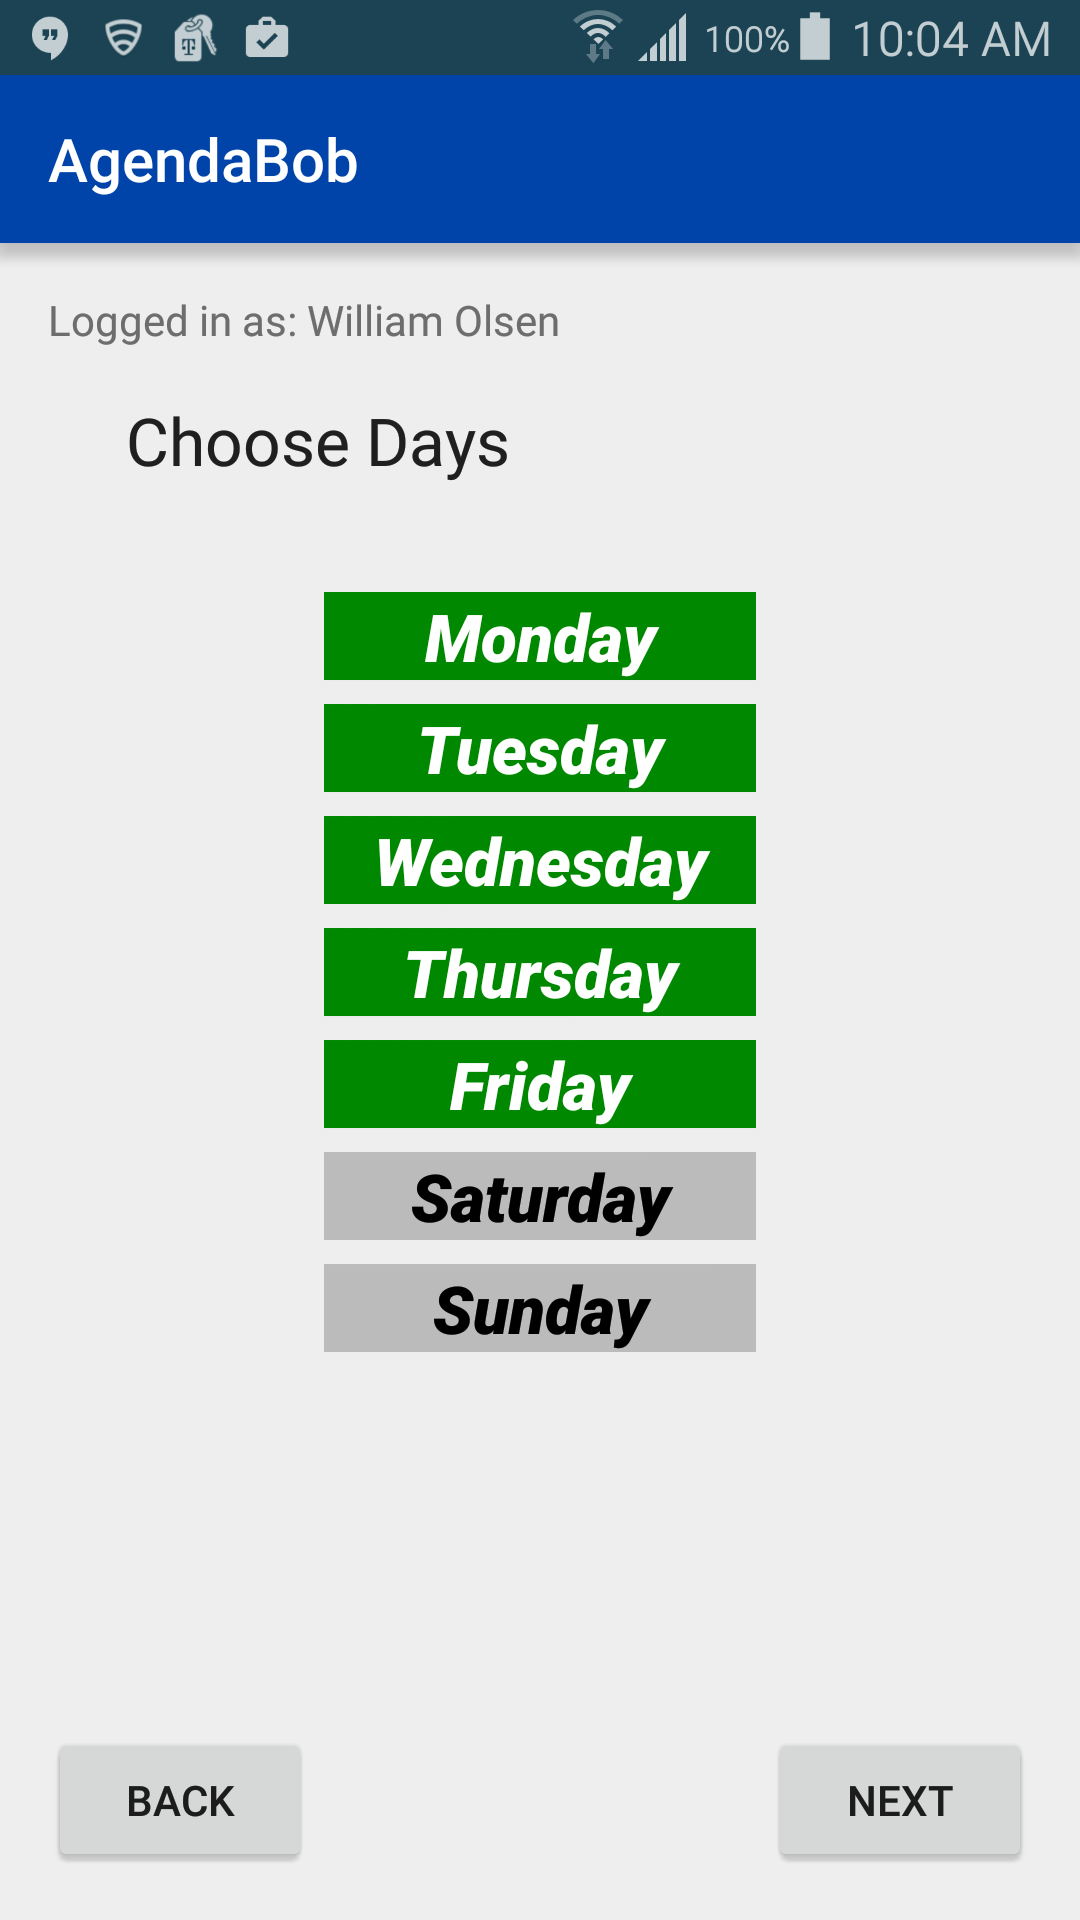
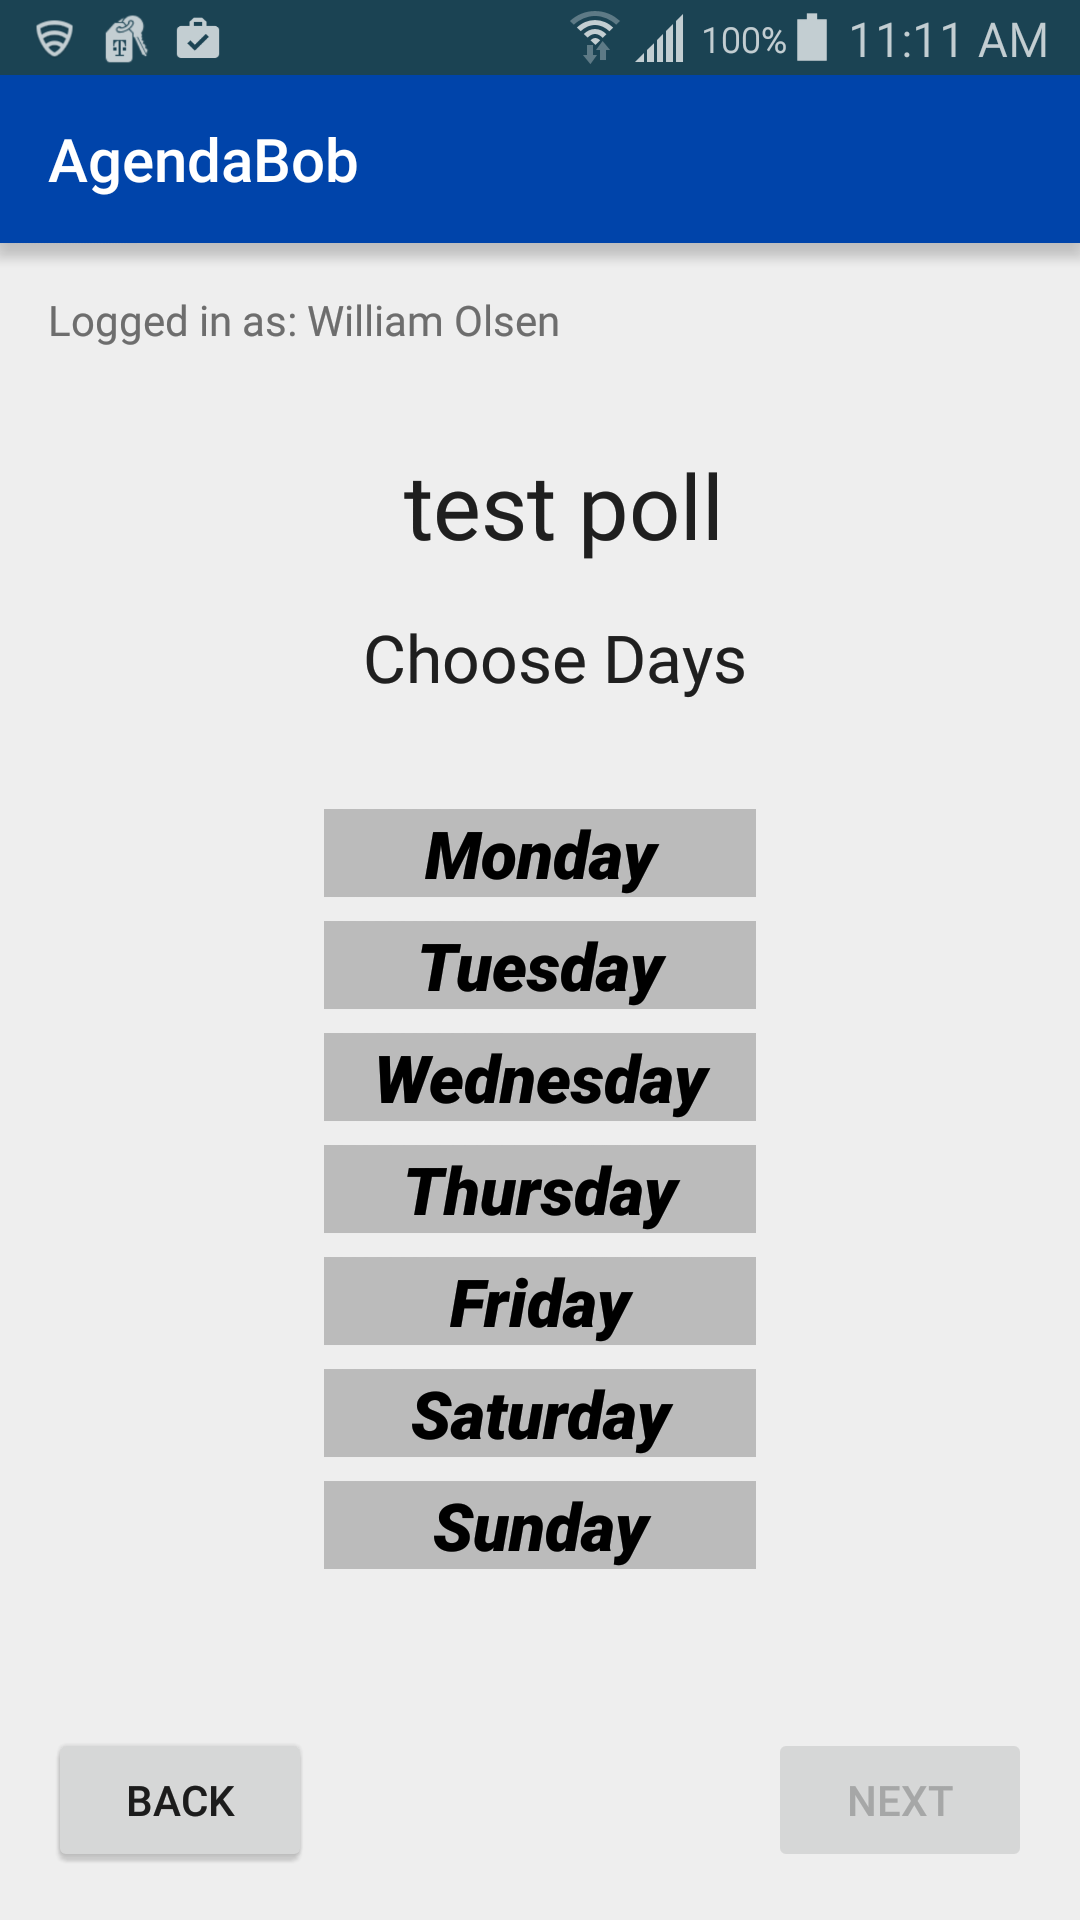
Now the poll name is kept and transferred between the PollCreationActivity Fragments.  It should bot be forgotten after hitting back from the second fragment.

diff --git a/Project1/app/src/main/java/casco/project1/Activities/PollCreationActivity.java b/Project1/app/src/main/java/casco/project1/Activities/PollCreationActivity.java
@@ -50,15 +50,7 @@ public class PollCreationActivity extends AppCompatActivity
         addPart1();
     }
     public void loadUser(Bundle bundle){
-        if (bundle != null) {
-            currentUser = (User) bundle.getSerializable(Constants.UserBundleKey);
-            Log.i("STEFAN", "User passed from other activity");
-        }
-        else
-        {
-            currentUser = new User();
-            Log.i("STEFAN", "User RECREATED");
-        }
+        currentUser = Constants.loadUser(bundle);
         test = (TextView) findViewById(R.id.tvTest);
         test.setText("Logged in as: " + currentUser.getName());
         Log.i("STEFAN", currentUser.getName());
@@ -74,20 +66,24 @@ public class PollCreationActivity extends AppCompatActivity
     public void loadPart1(){
         Log.i("STEFAN", "loadPart1");
         CreatePoll1 fragPart1 = new CreatePoll1();
+        Log.i("STEFAN", "SHOULD BE "+fragPart1.newPollName);
         //fragPart1.setCommunicator(this);
+        fragPart1.setPollNameAndDescription(pollName, pollDescription);
         FragmentTransaction trans = manager.beginTransaction();
         trans.replace(R.id.group, fragPart1, "Part1");
         trans.commit();
-        fragPart1.setPollNameAndDescription(pollName, pollDescription);
+
     }
     public void loadPart2(){
         Log.i("STEFAN", "loadPart2");
         CreatePoll2 fragPart2 = new CreatePoll2();
+        fragPart2.setPollNameAndDescription(pollName, pollDescription);
+        Log.i("STEFAN", "SHOULD BE "+fragPart2.pollName);
         //fragPart2.setCommunicator(this);
         FragmentTransaction trans = manager.beginTransaction();
         trans.replace(R.id.group, fragPart2, "Part2");
         trans.commit();
-        fragPart2.setPollNameAndDescription(pollName, pollDescription);
+
     }
     public void loadPart3(){
         Log.i("STEFAN", "loadPart3");
@@ -100,13 +96,23 @@ public class PollCreationActivity extends AppCompatActivity
     @Override
     public void switchToPart1() {
         Log.i("STEFAN", "switchToPart1");
+
         loadPart1();
     }
+    @Override
+    public void switchToPart2(String newPollName, String newPollDescription) {
+        Log.i("STEFAN", "switchToPart2");
+        pollName = newPollName;
+        pollDescription = newPollDescription;
+        loadPart2();
+    }
+
     @Override
     public void switchToPart2() {
         Log.i("STEFAN", "switchToPart2");
         loadPart2();
     }
+
     @Override
     public void switchToPart3() {
         Log.i("STEFAN", "switchToPart3");

diff --git a/Project1/app/src/main/java/casco/project1/Fragments/CreatePoll2.java b/Project1/app/src/main/java/casco/project1/Fragments/CreatePoll2.java
@@ -36,8 +36,8 @@ public class CreatePoll2 extends Fragment
         implements View.OnClickListener, DragSelectRecyclerViewAdapter.SelectionListener
 {
     TextView tvPollName;
-    String pollName;
-    String pollDecription;
+    public String pollName;
+    public String pollDecription;
     Button btnBack;
     Button btnNext;
     DragSelectRecyclerView dsrvDays;
@@ -64,6 +64,7 @@ public class CreatePoll2 extends Fragment
     public View onCreateView(LayoutInflater inflater, ViewGroup container,
                              Bundle savedInstanceState) {
         // Inflate the layout for this fragment
+
         return inflater.inflate(R.layout.fragment_create_poll2, container, false);
     }
 
@@ -72,9 +73,7 @@ public class CreatePoll2 extends Fragment
         super.onActivityCreated(savedInstanceState);
         comm = (Communicator) getActivity();
         listener = (ClickListener) getActivity();
-
-        tvPollName = (TextView) getActivity().findViewById(R.id.tvPollName);
-
+        tvPollName = (TextView) getActivity().findViewById(R.id.tvPollName2);
         dsraAdapter = new DragSelectRecyclerAdapter((ClickListener) getActivity());
         dsraAdapter.load();
         dsraAdapter.setSelectionListener(this);
@@ -94,7 +93,17 @@ public class CreatePoll2 extends Fragment
         btnNext = (Button) getActivity().findViewById(R.id.btnPart3);
         btnNext.setOnClickListener(this);
         btnNext.setEnabled(false);
-        tvPollName.setText(pollName);
+    }
+    @Override
+    public void onResume() {
+        super.onResume();
+
+        if(tvPollName != null && (pollName != null || pollName != "")) {
+            tvPollName.setText(pollName);
+        }
+        else{
+            Log.e("STEFAN", "TEXT VIEW STILL NOT LOADED");
+        }
     }
 
     public DragSelectRecyclerView getDragSelectRecyclerView(){

diff --git a/Project1/app/src/main/java/casco/project1/Fragments/CreatePoll1.java b/Project1/app/src/main/java/casco/project1/Fragments/CreatePoll1.java
@@ -25,8 +25,8 @@ public class CreatePoll1 extends Fragment implements View.OnClickListener {
     TextView tvPollDescription;
     EditText tePollDescription;
     Button btnNext;
-    String newPollName;
-    String newPollDescription;
+    public String newPollName;
+    public String newPollDescription;
 
     public void setCommunicator(Communicator c)
     {
@@ -40,8 +40,8 @@ public class CreatePoll1 extends Fragment implements View.OnClickListener {
         return inflater.inflate(R.layout.fragment_create_poll1, container, false);
     }
     public void setPollNameAndDescription(String name, String desc){
-        tePollTitle.setText(name);
-        tePollDescription.setText(desc);
+        newPollName = name;
+        newPollDescription = desc;
     }
 
     @Override
@@ -74,6 +74,14 @@ public class CreatePoll1 extends Fragment implements View.OnClickListener {
         if (btnNext  == null){
             Log.i("STEFAN", "FAILED TO LOAD BUTTON");
         }
+
+    }
+
+    @Override
+    public void onResume() {
+        super.onResume();
+        tePollTitle.setText(newPollName);
+        tePollDescription.setText(newPollDescription);
     }
 
     @Override
@@ -82,7 +90,7 @@ public class CreatePoll1 extends Fragment implements View.OnClickListener {
         Log.i("STEFAN", "Clicked");
         newPollName = tePollTitle.getText().toString();
         newPollDescription = tePollDescription.getText().toString();
-        comm.switchToPart2();
+        comm.switchToPart2(newPollName, newPollDescription);
     }
 
 }

diff --git a/Project1/app/src/main/java/casco/project1/dataBackend/Constants.java b/Project1/app/src/main/java/casco/project1/dataBackend/Constants.java
@@ -1,5 +1,11 @@
 package casco.project1.dataBackend;
 
+import android.os.Bundle;
+import android.util.Log;
+import android.widget.TextView;
+
+import casco.project1.R;
+
 /**
  * Created by Stefan on 5/3/2016.
  */
@@ -12,5 +18,19 @@ public class Constants {
     public static final String[] TimesHalfHour = {
 
     };
+    public static User loadUser(Bundle bundle){
+        User currentUser;
+        if (bundle != null) {
+            currentUser = (User) bundle.getSerializable(Constants.UserBundleKey);
+            Log.i("STEFAN", "User passed from other activity");
+        }
+        else
+        {
+            currentUser = new User();
+            Log.i("STEFAN", "User RECREATED");
+        }
+        Log.i("STEFAN", currentUser.getName());
+        return currentUser;
+    }
 
 }

diff --git a/Project1/app/src/main/java/casco/project1/Interfaces/Communicator.java b/Project1/app/src/main/java/casco/project1/Interfaces/Communicator.java
@@ -8,6 +8,7 @@ import android.view.View;
 public interface Communicator {
     public void switchToPart1();
 
+    public void switchToPart2(String newPollName, String newPollDescription);
     public void switchToPart2();
 
     public void switchToPart3();
